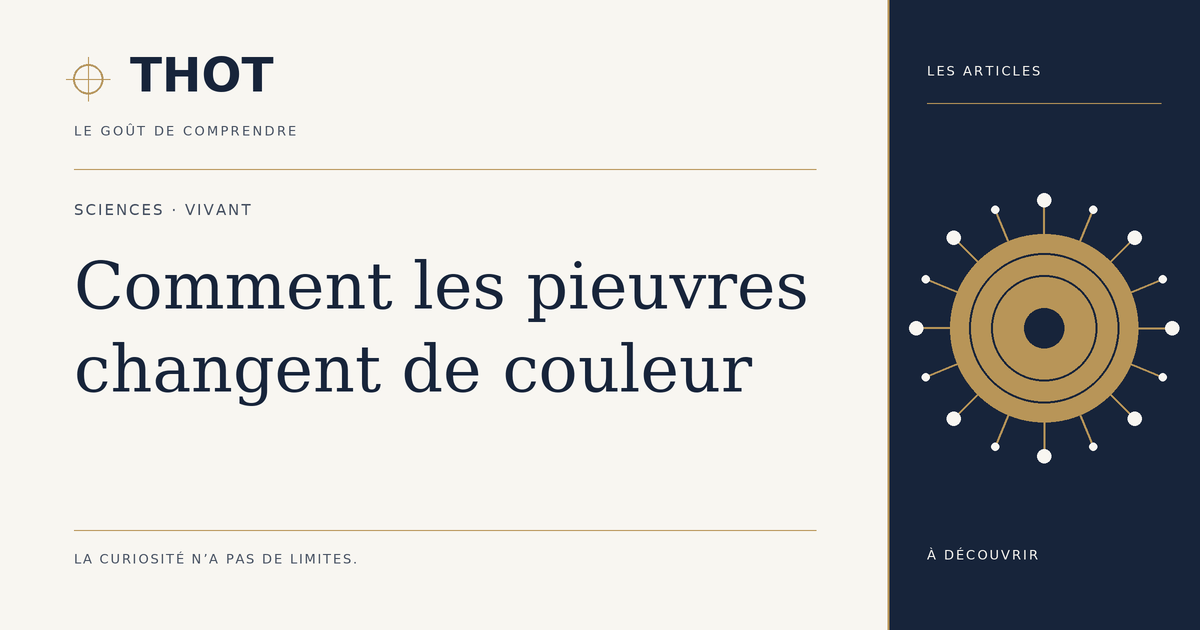
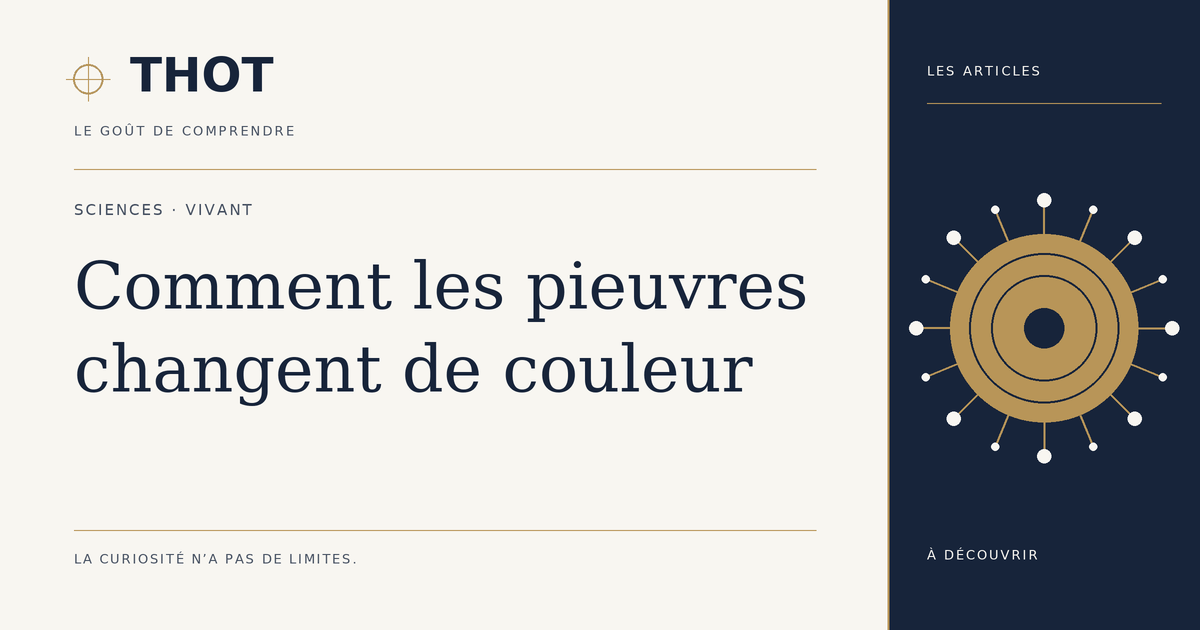
Fixer le moteur de composition des cartes pour un rendu identique sous Windows et Linux

diff --git a/scripts/generate-social-cards.py b/scripts/generate-social-cards.py
@@ -75,7 +75,9 @@ def font(font_dir: Path, filename: str, size: int) -> ImageFont.FreeTypeFont:
         raise SystemExit(
             f'Police requise absente : {path}\n'
             'Restaurer tools/fonts/dejavu ou utiliser --font-directory avec les mêmes fichiers et leurs licences.')
-    return ImageFont.truetype(str(path), size * SCALE)
+    # Les cartes sont en français (alphabet latin). Ne pas dépendre du choix
+    # implicite RAQM/BASIC de Pillow : RAQM est absent du wheel Windows.
+    return ImageFont.truetype(str(path), size * SCALE, layout_engine=ImageFont.Layout.BASIC)
 
 
 def xy(point):

diff --git a/docs/GENERATION-PORTABLE.md b/docs/GENERATION-PORTABLE.md
@@ -18,6 +18,9 @@ Sous un système où l’exécutable Python s’appelle `python3`, utiliser ce n
 Pillow est fixé à la version utilisée pour cette livraison. Les trois polices DejaVu sont fournies dans
 `tools/fonts/dejavu/`, avec leur licence Bitstream Vera et leurs empreintes SHA-256.
 Le générateur utilise ces mêmes fichiers sur tous les systèmes, sans rechercher une police système différente.
+Le moteur de composition est explicitement `ImageFont.Layout.BASIC` pour ces cartes en français :
+Pillow ne choisit plus implicitement RAQM sous Linux et BASIC sous Windows, ce qui changeait les espacements.
+Les cinq cartes typographiques ont été régénérées avec ce moteur commun, sans changer leurs titres ni leurs compositions.
 `--font-directory` permet de sélectionner une copie des mêmes fichiers ; il ne garantit pas des images identiques si les polices diffèrent.
 Ne pas remplacer silencieusement une police manquante par Arial ou une autre fonte.
 
